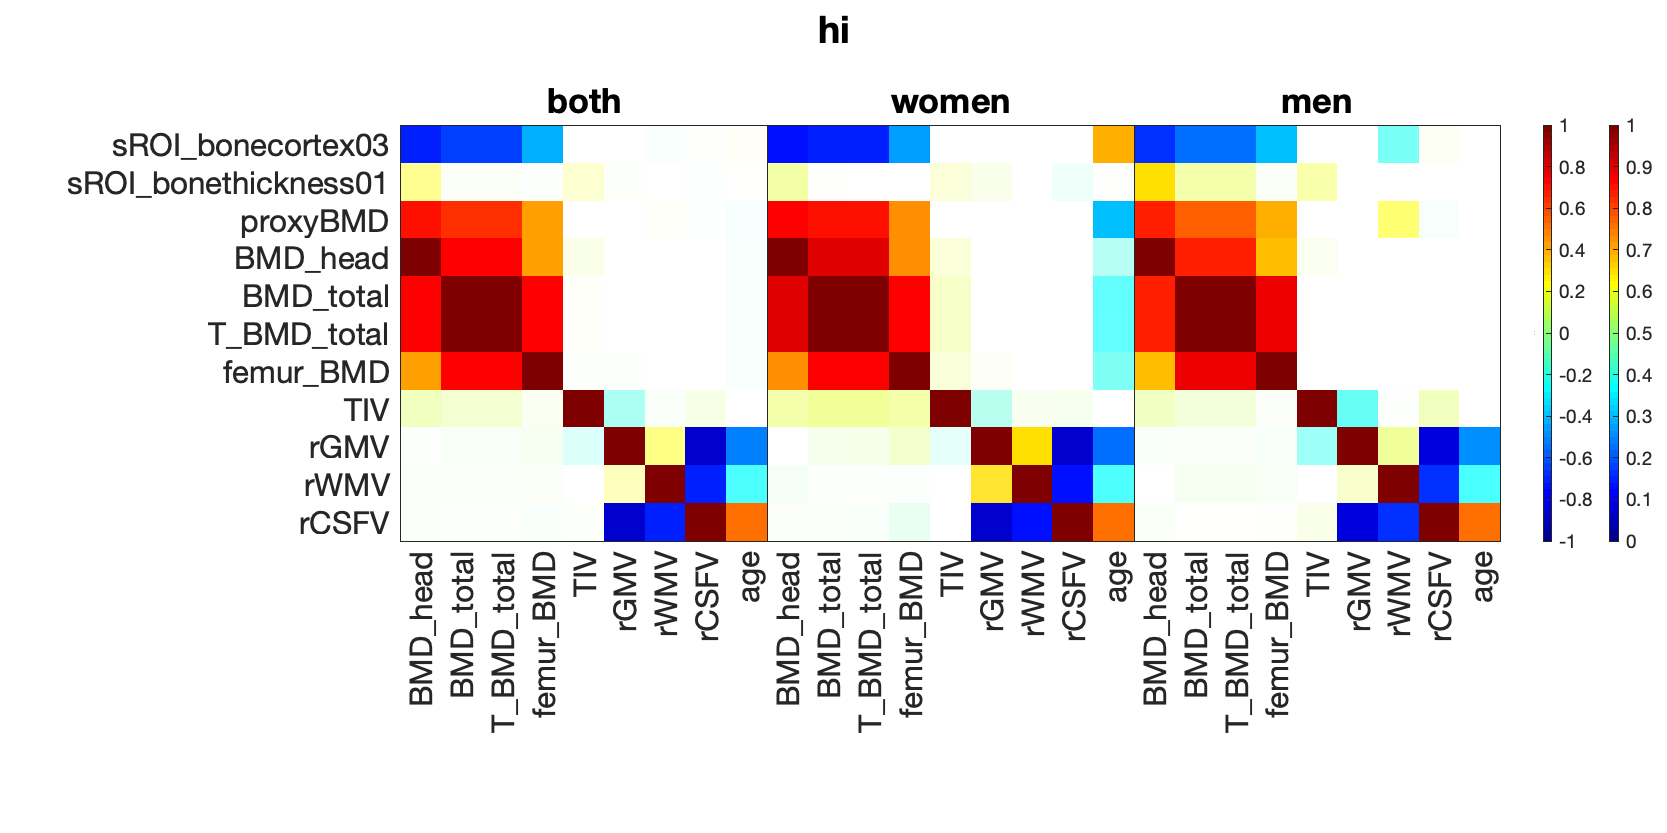
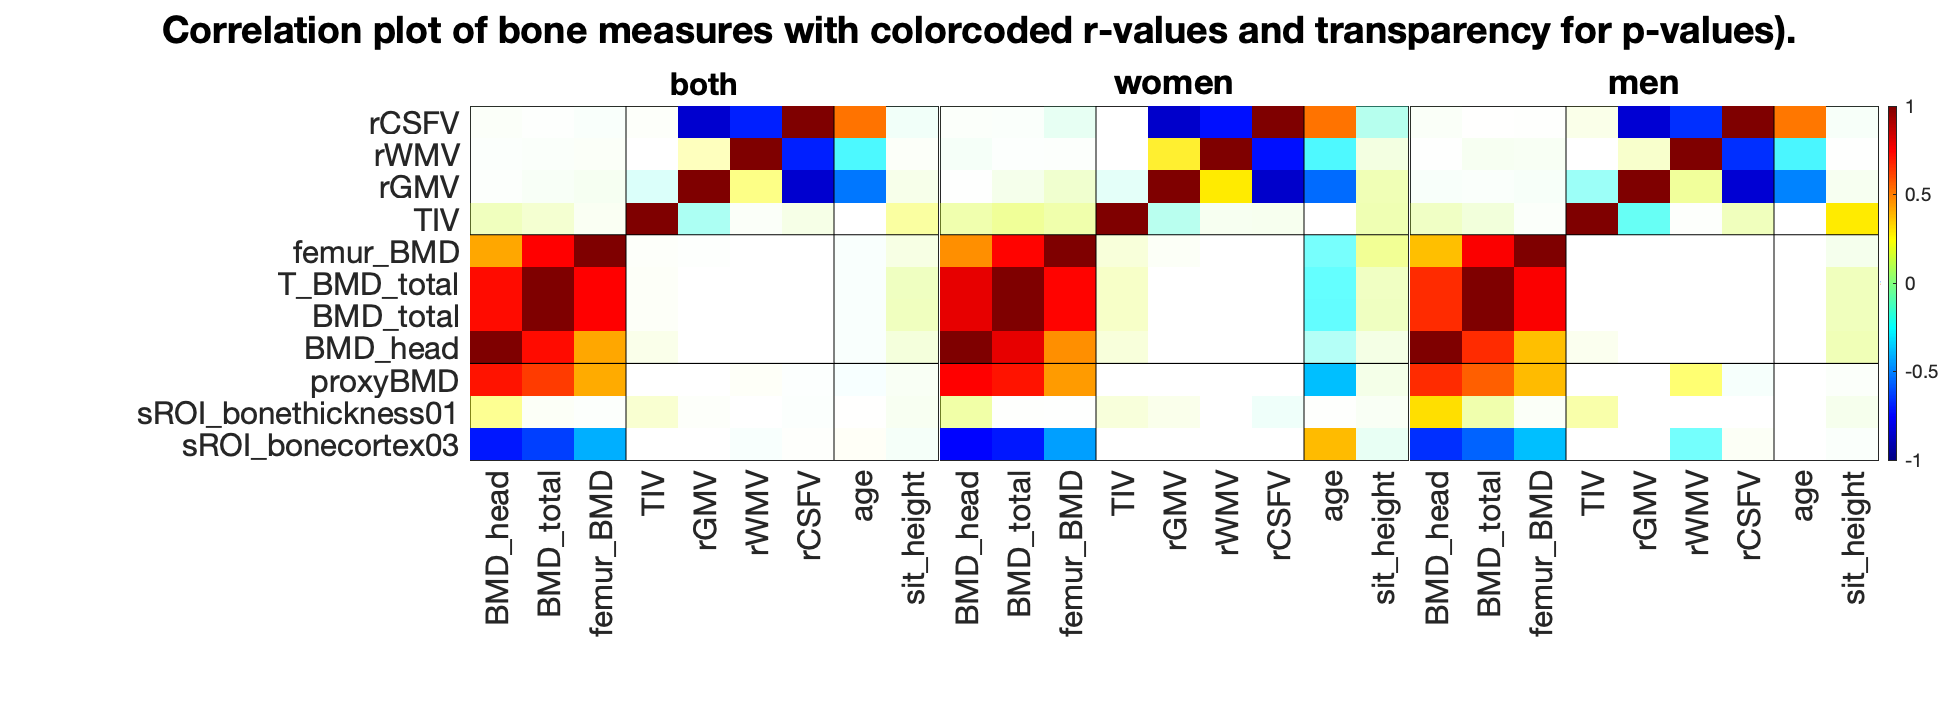
Updated HBM figures

diff --git a/evaluation/HBM_boney_table.m b/evaluation/HBM_boney_table.m
@@ -8,7 +8,7 @@
 % _________________________________________________________________________
 
 
-fontsize     = 15;
+fontsize     = 14;
 boneyEvalDir = fileparts(which('HBM_boney_table.m'));
 
 % load data
@@ -16,23 +16,23 @@ men_corr   = cat_io_csv(fullfile(boneyEvalDir,'HBM_2024','men_corr_Boney.csv'));
 men_pval   = cat_io_csv(fullfile(boneyEvalDir,'HBM_2024','men_pval_Boney.csv'));
 women_corr = cat_io_csv(fullfile(boneyEvalDir,'HBM_2024','women_corr_Boney.csv'));
 women_pval = cat_io_csv(fullfile(boneyEvalDir,'HBM_2024','women_pval_Boney.csv'));
-%both_corr  = cat_io_csv(fullfile(boneyEvalDir,'HBM_2024','both_corr_Boney.csv'));
-%both_pval  = cat_io_csv(fullfile(boneyEvalDir,'HBM_2024','both_pval_Boney.csv'));
-both_corr  = men_corr;
-both_pval  = men_pval; 
-both_corr(2:end,2:end)  = num2cell(mean(cell2mat(cat(3,men_corr(2:end,2:end),women_corr(2:end,2:end))),3));
-both_pval(2:end,2:end)  = num2cell(mean(cell2mat(cat(3,men_pval(2:end,2:end),women_pval(2:end,2:end))),3));
+both_corr  = cat_io_csv(fullfile(boneyEvalDir,'HBM_2024','boney_correlation_proper.csv')); both_corr(2,:) = []; both_corr(:,2) = [];
+both_pval  = cat_io_csv(fullfile(boneyEvalDir,'HBM_2024','boney_cor_pval.csv'));
+%both_corr  = men_corr; both_corr(2:end,2:end)  = num2cell(mean(cell2mat(cat(3,men_corr(2:end,2:end),women_corr(2:end,2:end))),3));
+%both_pval  = men_pval; both_pval(2:end,2:end)  = num2cell(mean(cell2mat(cat(3,men_pval(2:end,2:end),women_pval(2:end,2:end))),3));
 
 
 % we want to create multipe talbes with specific focus, i.e. to evaluate 
 % the bone and then fat measures separatly 
-use_vals   = { % x y
-  [ 9 10 11 12  ,  2:5 , 1 ]  [ 6 8 7 , 9 10 11 12  ,  2:5 ];   % bone
-  [ 9 10 11 12  ,  2:5 , 1 ]  [ 6 8 7 , 9 10 11 12  ,  2:5 ];   % fat
+use_vals   = { 
+  [ 9 10 12  ,  2:5 , 1 13         ]  [ 6 7 8   , 9 11 12  ,  2:5 ] 'bone' [3 7 12]  [3 7];   % bone [BMD, brain, age]
+  [ 2:5 , 1 15:21                  ]  [ 14      ,                2:5 ] 'fat'  [3     ]  [3  ];    % fat  [
+  [ 9 10 12  ,  2:5 , 1 13 , 15:21 ]  [ 6 7 8 14, 9 11 12  ,  2:5 ] 'bone' [3 7 9 14]  [3 4 8];   % bone [BMD, brain, age]
 };
 
 
-for uvi = 1:size(use_vals,1)
+%%
+for uvi = 3 %1:size(use_vals,1)
   %% prepare smaller tables
   men_corr2   = men_corr(   [1 1+use_vals{uvi,1}] , [1 1+use_vals{uvi,2}])'; 
   men_pval2   = men_pval(   [1 1+use_vals{uvi,1}] , [1 1+use_vals{uvi,2}])'; 
@@ -41,59 +41,89 @@ for uvi = 1:size(use_vals,1)
   both_corr2  = both_corr(  [1 1+use_vals{uvi,1}] , [1 1+use_vals{uvi,2}])'; 
   both_pval2  = both_pval(  [1 1+use_vals{uvi,1}] , [1 1+use_vals{uvi,2}])'; 
 
-  % matrix
+  % create figure
   fg = 11; fgh = figure(fg); clf(fg); fgh.Color = [1 1 1]; 
-  fgh.Position(3:4) = [800 400]; 
-  ha = annotation('textbox',[0.005 0.92 0.99 0.08],'string','hi'); %sprintf( ...
-    %'(%d) %s - site %d, N=%d (r~color,p~transparency<%0.03f)',matonly,matonlyn{matonly+1},si, numel(age), pv));
+  fgh.Position(3:4) = [700 + 20*size( men_corr2 ,1 )   100 + 20*size( men_corr2 ,1 ) ]; 
+
+  % title 
+  ha = annotation('textbox',[0.005 0.92 0.99 0.08],'string',...
+    sprintf(['Correlation plot of %s measures with colorcoded r-values ' ...
+    'and transparency for p-values).'], use_vals{uvi,3}));
   ha.FontSize             = fontsize * 1.2;
   ha.FontWeight           = 'bold';
   ha.HorizontalAlignment  = 'center';
   ha.EdgeColor            = 'none'; 
   
-  subplot('Position',[0.24 0.35 0.22 .5]); 
-  im = imagesc( cell2mat(both_corr2(2:end,2:end)) ); 
-  im.AlphaData = min(1,max(0,.1 * log10(1 ./ cell2mat(both_pval2(2:end,2:end) )))); 
-  ax = gca; ax.TickLength = [0 0];
-  ax.XTick = 1:numel( both_corr2(:,1) ); 
-  ax.XTickLabel = cat_io_strrep( both_corr2(1,2:end) ,'_','\_');
-  ax.XTickLabelRotation = 90;
-  ax.YTick = 1:numel( both_corr2(:,1) ); 
-  ax.YTickLabel = cat_io_strrep( both_corr2(2:end,1) ,'_','\_');
-  ax.FontSize = fontsize; 
-  clim([-1 1]);
-  title('both')
+
+  % plot for both sexes - print a matix a a specific position 
+  subplot('Position', [0.20 0.35 0.239 .5]); hold on
+  im                      = imagesc( cell2mat(both_corr2(2:end,2:end)) ); 
+  im.AlphaData            = min(1,max(0,.1 * log10(1 ./ cell2mat(both_pval2(2:end,2:end) )))); 
+  for uvix = use_vals{uvi,4}, plot([uvix uvix]+.5,[1 size(both_corr2,1)]-.5,'Color',[0 0 0]); end
+  for uvix = use_vals{uvi,5}, plot([1 size(both_corr2,2)]-.5,[uvix uvix]+.5,'Color',[0 0 0]); end
+  xlim([0.5 size(both_corr2,2)-.5]); ylim([0.5 size(both_corr2,1)-.5]); clim([-1 1]);
+  % no we have to update the axis labels 
+  ax                      = gca; 
+  ax.TickLength           = [0 0];
+  ax.XTick                = 1:numel( both_corr2(1,2:end) ); 
+  ax.XTickLabel           = cat_io_strrep( both_corr2(1,2:end) ,'_','\_');
+  ax.XTickLabelRotation   = 90;
+  ax.YTick                = 1:numel( both_corr2(2:end,1) ); 
+  ax.YTickLabel           = cat_io_strrep( both_corr2(2:end,1) ,'_','\_');
+  ax.FontSize             = fontsize; 
+  title('both sexes','FontSize',fontsize); box on
   
-  subplot('Position',[0.46 0.35 0.22 .5]); 
-  im = imagesc( cell2mat(women_corr2(2:end,2:end)) ); 
-  im.AlphaData = min(1,max(0,.1 * log10(1 ./ cell2mat(women_pval2(2:end,2:end))) )); 
+
+  % women
+  subplot('Position', [0.44 0.35 0.239 .5]); hold on
+  im                      = imagesc( cell2mat(women_corr2(2:end,2:end)) ); 
+  im.AlphaData            = min(1,max(0,.1 * log10(1 ./ cell2mat(women_pval2(2:end,2:end))) )); 
+  for uvix = use_vals{uvi,4}, plot([uvix uvix]+.5,[1 size(both_corr2,1)]-.5,'Color',[0 0 0]); end
+  for uvix = use_vals{uvi,5}, plot([1 size(both_corr2,2)]-.5,[uvix uvix]+.5,'Color',[0 0 0]); end
+  xlim([0.5 size(both_corr2,2)-.5]); ylim([0.5 size(both_corr2,1)-.5]); clim([-1 1]);
   ax = gca; ax.TickLength = [0 0];
-  ax.XTick = 1:numel( women_corr2(:,1) ); 
-  ax.XTickLabel = cat_io_strrep( both_corr2(1,2:end) ,'_','\_');
-  ax.XTickLabelRotation = 90;
-  ax.YTick = []; 
-  ax.FontSize = fontsize; 
-  clim([-1 1]);
-  title('women')
+  ax.XTick                = 1:numel( both_corr2(1,2:end) ); 
+  ax.XTickLabel           = cat_io_strrep( both_corr2(1,2:end) ,'_','\_');
+  ax.XTickLabelRotation   = 90;
+  ax.YTick                = []; 
+  ax.FontSize             = fontsize; 
+  title('women'); box on
   
-  subplot('Position',[0.68 0.35 0.22 .5]); 
-  im = imagesc( cell2mat(men_corr2(2:end,2:end)) ); 
-  im.AlphaData = min(1,max(0,.1 * log10(1./ cell2mat(men_pval2(2:end,2:end))) )); 
-  ax = gca; ax.TickLength = [0 0];
-  ax.XTick = 1:numel( women_corr2(:,1) ); 
-  ax.XTickLabel = cat_io_strrep( both_corr2(1,2:end) ,'_','\_');
-  ax.XTickLabelRotation = 90;
-  ax.YTick = []; 
-  ax.FontSize = fontsize; 
-  clim([-1 1]);
-  title('men')
+
+  % men 
+  subplot('Position', [0.68 0.35 0.239 .5]); hold on
+  im                      = imagesc( cell2mat(men_corr2(2:end,2:end)) ); 
+  im.AlphaData            = min(1,max(0,.1 * log10(1./ cell2mat(men_pval2(2:end,2:end))) )); 
+  for uvix = use_vals{uvi,4}, plot([uvix uvix]+.5,[1 size(both_corr2,1)]-.5,'Color',[0 0 0]); end
+  for uvix = use_vals{uvi,5}, plot([1 size(both_corr2,2)]-.5,[uvix uvix]+.5,'Color',[0 0 0]); end
+  xlim([0.5 size(both_corr2,2)-.5]); ylim([0.5 size(both_corr2,1)-.5]); clim([-1 1]);
+  ax                      = gca; 
+  ax.TickLength           = [0 0];
+  ax.XTick                = 1:numel( both_corr2(1,2:end) ); 
+  ax.XTickLabel           = cat_io_strrep( both_corr2(1,2:end) ,'_','\_');
+  ax.XTickLabelRotation   = 90;
+  ax.YTick                = []; 
+  ax.FontSize             = fontsize; 
+  %ax.LineWidth            = 2; 
+  title('men'); box on
+
 
   colormap(jet); 
-  subplot('Position',[0.92,0.35,0.0001,0.5]); imagesc( (-1:.1:1)' ); axis equal off
-  cb = colorbar; 
+  subplot('Position',[0.92,0.35,0.1,0.5]); 
+  im            = imagesc( repmat( flip( (-1:.1:1)' ), 1 , 5) );
+  im.AlphaData  = repmat( 0:.25:1 , 21 , 1);   
+  ax            = gca; 
+
+
+%  cb = colorbar; cb.FontSize = fontsize * .9;
+  %cb.Ticks = [-1:0.2:1];
   
-  subplot('Position',[0.96,0.35,0.0001,0.5]); axis equal off
-  cb = colorbar;
+%  subplot('Position',[0.96,0.35,0.1,0.5]); 
+%  im = imagesc( ones(1,11) ); im.AlphaData = 0:0.1:1; clim([0 1]);
+  %cb = colorbar; cb.FontSize = fontsize * .9; 
+  %cb.Ticks = 0:0.25:1; %cb.Label = {0:0.25:1};
+%  axis equal off
+  %cb = colorbar;
   
   %subplot('Position',[0.95,0.35,0.0001,0.5]); 
   %subplot('Position',[0.98,0.35,0.0001,0.5]); imagesc( ones(1,21) ); axis equal off
